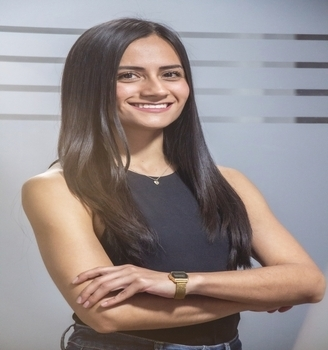
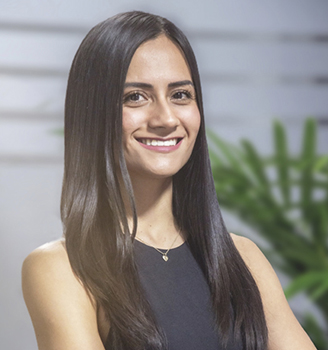
tarjetas de about
tarjetas de about terminado

diff --git a/public/assets/css/style.css b/public/assets/css/style.css
@@ -6140,28 +6140,147 @@ Contact Us Page: End
 /*
 Section Our Team: Start
 */
-.our-team-block .container .list-member .col-12 .bg-img {
-  position: relative;
+/*
+tarjeta secretaria general
+
+*/
+.tarjeta {
+  background-color: #fff;
+  border-radius: 10px;
   overflow: hidden;
-  border-radius: 20px;
-  cursor: pointer;
+  box-shadow: 0 4px 8px rgba(0, 0, 0, 0.1);
+  display: flex;
+  width: 650px;
 }
+
+/* Estilos de la imagen */
+.imagen {
+  width: 50%; /* Añadido para hacer que la imagen ocupe el 50% del ancho del contenedor */
+  height: auto; /* Añadido para mantener la relación de aspecto de la imagen */
+  object-fit: cover;
+  border-radius: 20px;
+  
+}
+
+/* Estilos del contenido de texto */
+.contenido {
+  padding: 15px;
+}
+
+/* Estilos del nombre Ana Rivasplata */
+.nombre {
+  font-size: 40px;
+  font-weight: bold;
+  color: #000;
+  display: block;
+  line-height: 1.2
+}
+.nombres {
+  font-size: 34px;
+  font-weight: bold;
+  color: #000;
+  display: block;
+}
+
+/* Estilos del cargo "Secretaria General" */
+.cargo {
+  font-size: 24px;
+  margin-top: 10px;
+  position: relative;
+  font-family: 'Bahnschrift Light', sans-serif;
+  text-align: center;
+}
+.rectangulo {
+  background-color: #007bff; /* Fondo azul */
+  color: #ffffff; /* Texto blanco */
+  padding: 10px;
+  border-radius: 5px; /* Esquinas redondeadas */
+}
+
+.our-team-block .container .list-member {
+  width: 300% ;
+  display: flex;
+  flex-wrap: wrap;
+  justify-content: space-between; /* Alinea los elementos en el espacio disponible */
+}
+
+.our-team-block .container .list-member .col-12 {
+  margin-bottom: 20px; /* Ajusta los márgenes inferiores entre los elementos */
+  box-sizing: border-box; /* Ajusta el modelo de caja para incluir los márgenes en el ancho total */
+}
+
+
+
+/* Resto de tus estilos... */
+
+.member-container {
+  background-color: #fff;
+  border-radius: 10px;
+  overflow: hidden;
+  box-shadow: 0 4px 8px rgba(0, 0, 0, 0.1);
+  display: flex;
+  width: 200px;
+  margin-bottom: 20px;
+  margin-right: 20px; /* Espacio entre cada container en el lado derecho */
+}
+.our-team-block .container .list-member .col-12 .member-container {
+  display: flex;
+  width: 100%;
+}
+
+.our-team-block .container .list-member .col-12 .bg-img {
+  width: 50%; /* Ancho de la imagen del miembro */
+  overflow: hidden;
+  border-radius: 15px 0 0 15px; /* Esquina redondeada en la esquina superior izquierda y esquina inferior izquierda */
+}
+
 .our-team-block .container .list-member .col-12 .bg-img img {
   transition: all ease 0.5s;
+    width: 100%;
+    height: 100%;
+    object-fit: cover; /* Ajustamos la imagen para cubrir todo el contenedor */
 }
-.our-team-block .container .list-member .col-12 .bg-img .list-social {
+.our-team-block .container .list-member .col-12 .infor {
+  width: 50%; /* Ancho de la información del miembro */
+  padding: 20px;
+  box-sizing: border-box;
+}
+
+.our-team-block .container .list-member .col-12 .name {
+  font-size: 24px; /* Tamaño de fuente del nombre */
+  text-transform: uppercase; /* Convertir el nombre a mayúsculas */
+}
+
+.our-team-block .container .list-member .col-12 .position {
+  background-color: #007bff; /* Fondo azul */
+  color: #ffffff; /* Texto blanco */
+  padding: 10px;
+  border-radius: 5px; /* Esquinas redondeadas */
+}
+
+.our-team-block .container .list-member .col-12 .description {
+  color: #333; /* Color de texto para la descripción */
+}
+.our-team-block .container .list-service .col-12 .bg-img {
+  position: relative; /* Añade esta línea */
+}
+.our-team-block .container .list-service .col-12 .bg-img .list-social {
   display: flex;
   flex-direction: column;
   row-gap: 8px;
   position: absolute;
-  top: 60%;
+  top: 50%;
   transform: translateY(-50%);
-  right: -80px;
+  right: 20px;
   border-radius: 8px;
   padding: 12px 8px;
-  transition: all ease-in-out 0.5s;
+  opacity: 0; /* Añade esta línea */
+  transition: opacity 0.5s ease; /* Añade esta línea */
 }
-.our-team-block .container .list-member .col-12 .bg-img .list-social a {
+.our-team-block .container .list-service .col-12 .bg-img:hover .list-social {
+  opacity: 1; /* Añade esta línea */
+}
+.our-team-block .container .list-service .col-12 .bg-img .list-social a {
   display: flex;
   align-items: center;
   justify-content: center;
@@ -6169,32 +6288,32 @@ Section Our Team: Start
   width: 30px;
   height: 30px;
 }
-.our-team-block .container .list-member .col-12 .bg-img .list-social a i {
+.our-team-block .container .list-service .col-12 .bg-img .list-social a i {
   margin-left: 2px;
 }
-.our-team-block .container .list-member .col-12 .bg-img .list-social a i::before {
+.our-team-block .container .list-service .col-12 .bg-img .list-social a i::before {
   color: var(--on-surface);
 }
-.our-team-block .container .list-member .col-12 .bg-img .list-social a:hover {
+.our-team-block .container .list-service .col-12 .bg-img .list-social a:hover {
   background-color: var(--blue);
 }
-.our-team-block .container .list-member .col-12 .bg-img .list-social a:hover i::before {
+.our-team-block .container .list-service .col-12 .bg-img .list-social a:hover i::before {
   color: var(--white);
 }
-.our-team-block .container .list-member .col-12 .infor .name {
+.our-team-block .container .list-service .col-12 .infor .name {
   transition: all ease-in-out 0.3s;
 }
-.our-team-block .container .list-member .col-12:hover {
+.our-team-block .container .list-service .col-12:hover {
   cursor: pointer;
 }
-.our-team-block .container .list-member .col-12:hover .bg-img img {
+.our-team-block .container .list-service .col-12:hover .bg-img img {
   transform: scale(1.1);
 }
-.our-team-block .container .list-member .col-12:hover .list-social {
+.our-team-block .container .list-service .col-12:hover .list-social {
   transition: all ease-in-out 0.5s;
   right: 20px;
 }
-.our-team-block .container .list-member .col-12:hover .infor .name {
+.our-team-block .container .list-service .col-12:hover .infor .name {
   color: var(--blue);
 }
 
@@ -7261,6 +7380,7 @@ Reduce font and spacing: Start
     font-size: 36px;
   }
 }
+
 /*
 Reduce font and spacing: End
 */
